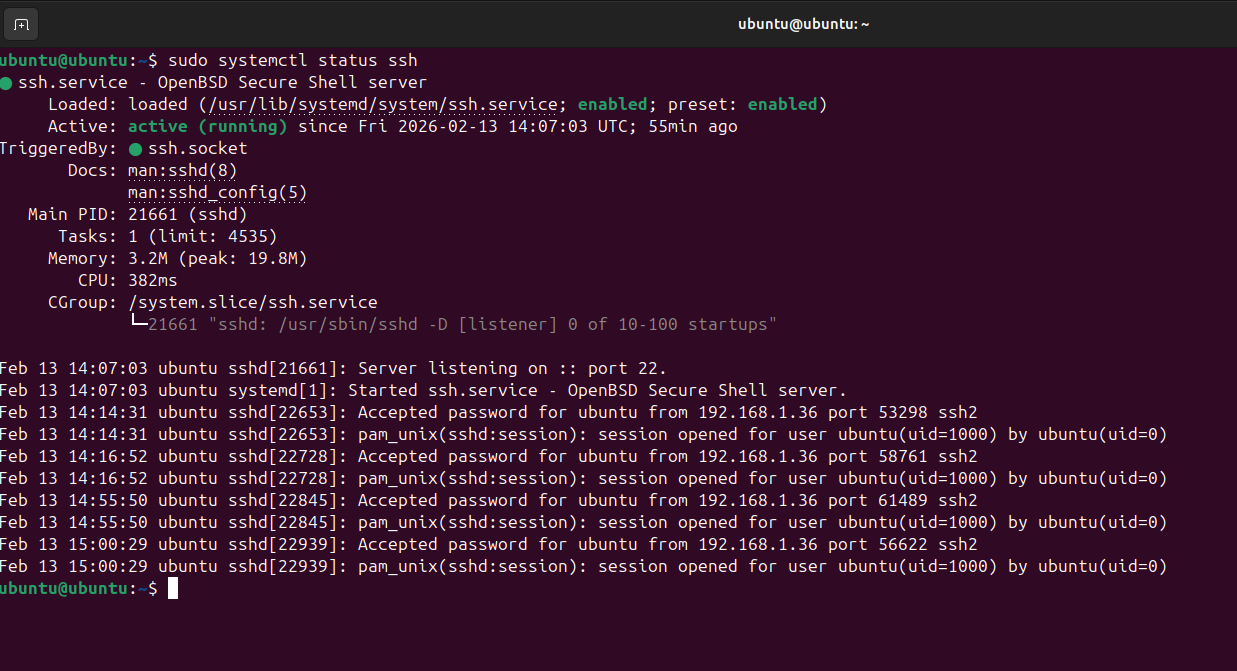
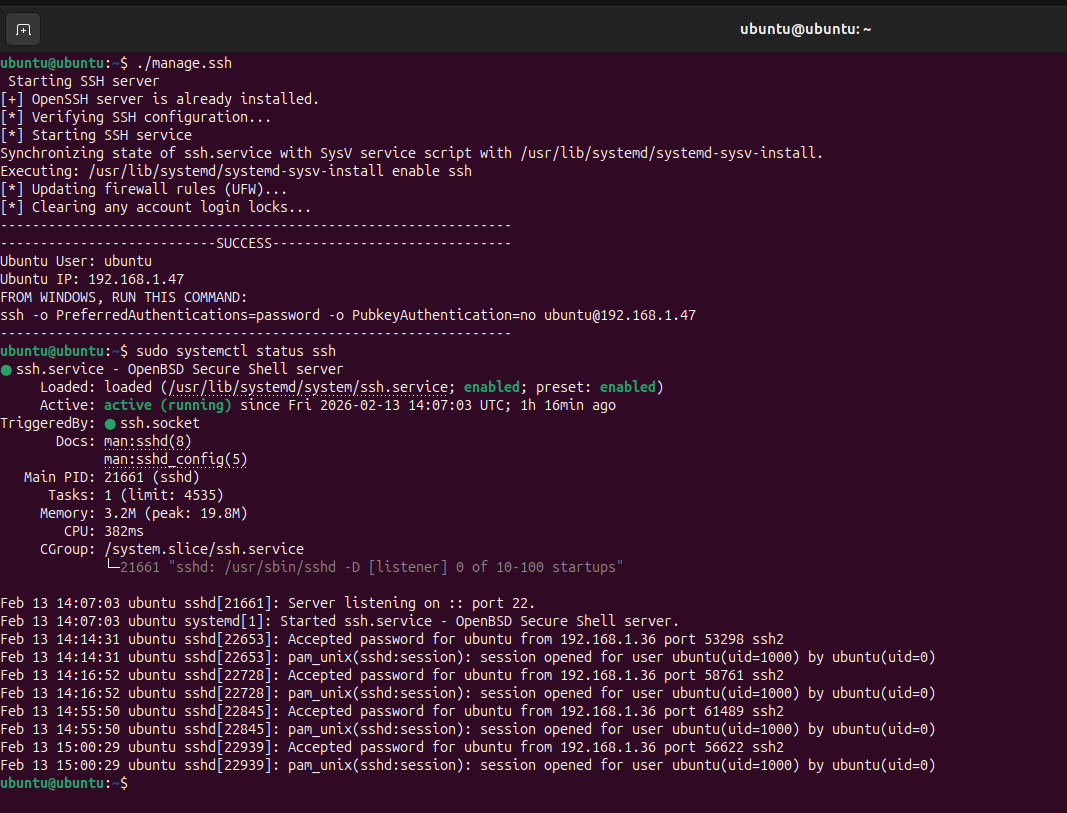
image addition

Changed region(s): [[0.0, 0.0298, 0.9588, 0.9836], [0.5876, 0.0298, 0.8041, 0.0596]]

diff --git a/README.md b/README.md
@@ -30,13 +30,13 @@ I authored a Bash script to handle the "dirty work" of server administration. It
 ### 1. Server-Side Execution
 The following image shows the `manage_ssh.sh` script running successfully. Note the IP address detection and the "Active" status of the SSH service.
 
-![Ubuntu Terminal Success](ubuntu_success.png)
+![Ubuntu Terminal Success](https://github.com/Syed-Hermain/SSH-server/blob/41ea97773dc51648ba6387d996f016d95173bb17/view/ubuntuserver.png)
 *Caption: Ubuntu terminal showing the script output and `sudo systemctl status ssh` confirming the server is listening.*
 
 ### 2. Client-Side Connection
 This image confirms the connection from the Windows PowerShell terminal. By bypassing Public Key checks, I successfully reached the Ubuntu bash prompt.
 
-![Windows Terminal Success](windows_success.png)
+![Windows Terminal Success](https://github.com/Syed-Hermain/SSH-server/blob/41ea97773dc51648ba6387d996f016d95173bb17/view/loggedin.png)
 *Caption: Windows terminal showing the successful login to the Ubuntu VM via SSH.*
 
 ---
@@ -63,12 +63,6 @@ This image confirms the connection from the Windows PowerShell terminal. By bypa
    - Open PowerShell.
    - Run: `ssh -o PreferredAuthentications=password -o PubkeyAuthentication=no ubuntu@<VM_IP>`
 
----
-
-## 📚 Lessons Learned
-* **Bridged Networking:** Essential for "peer-to-peer" communication between VMs and Hosts.
-* **Idempotency:** Designing scripts that can run multiple times without breaking the system.
-* **SSH Debugging:** Learning to use `-o` flags to force specific authentication methods when defaults fail.
 
 ---
 *Created by Syed Hermain*
